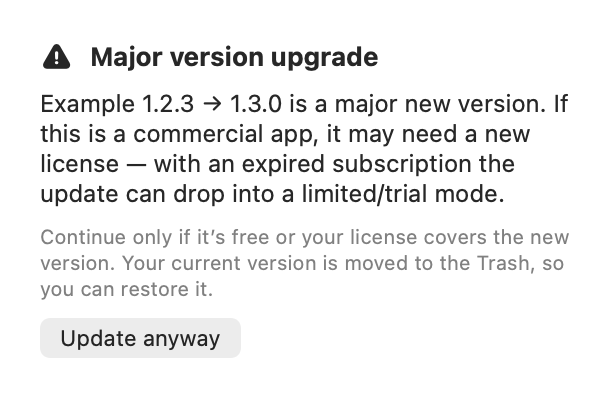
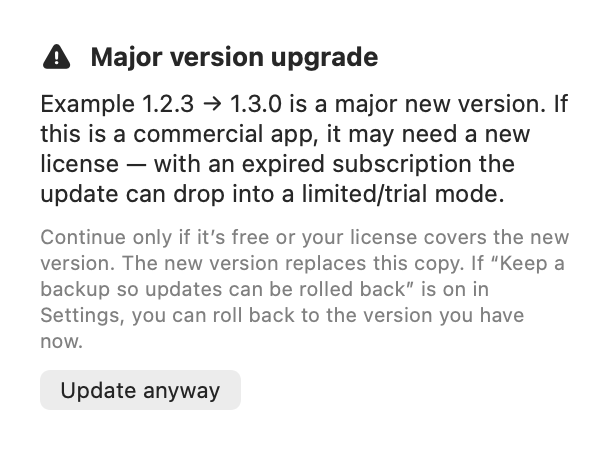
Major-upgrade popover: stop promising the old version goes to the Trash
Nothing moves the replaced app to the Trash: the installers swap it in
place, and a rollback copy exists only when "Keep a backup so updates can
be rolled back" is on (off unless chosen for new users). Say that instead,
in every catalog language, reusing the wording and translations of the
MySQL Workbench rewritten-app panel.

diff --git a/App/Sources/PopoverRowAction.swift b/App/Sources/PopoverRowAction.swift
@@ -456,7 +456,7 @@ struct PopoverRowAction: View {
                 .font(.headline)
             Text("\(result.app.name) \(result.app.shortVersion ?? "?") → \(result.remote?.displayVersion ?? "?") is a major new version. If this is a commercial app, it may need a new license — with an expired subscription the update can drop into a limited/trial mode.")
                 .font(.callout)
-            Text("Continue only if it’s free or your license covers the new version. Your current version is moved to the Trash, so you can restore it.")
+            Text("Continue only if it’s free or your license covers the new version. The new version replaces this copy. If “Keep a backup so updates can be rolled back” is on in Settings, you can roll back to the version you have now.")
                 .font(.caption)
                 .foregroundStyle(.secondary)
             Button("Update anyway") {
